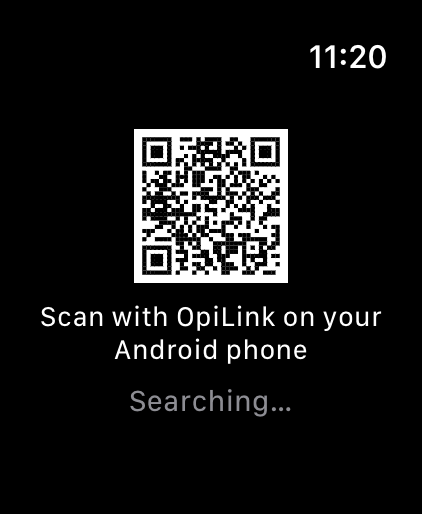
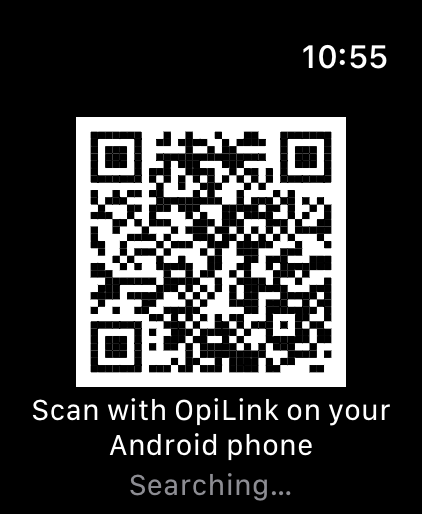
Enhanced and robust QR pairing

Changed region(s): [[0.0616, 0.2179, 0.9242, 0.9961], [0.7085, 0.0623, 0.9242, 0.1556]]

diff --git a/android/app/src/main/java/com/opiconnect/companion/LinkService.kt b/android/app/src/main/java/com/opiconnect/companion/LinkService.kt
@@ -524,7 +524,10 @@ class LinkService : Service() {
 
     private fun startAdvertising() {
         if (advertising || adapter?.isEnabled != true) return
-        val adv = adapter?.bluetoothLeAdvertiser ?: return
+        val adv = adapter?.bluetoothLeAdvertiser ?: run {
+            showAdvError(getString(R.string.error_ble_adv_unsupported))
+            return
+        }
         advertiser = adv
         val settings = AdvertiseSettings.Builder()
             .setAdvertiseMode(AdvertiseSettings.ADVERTISE_MODE_BALANCED)
@@ -547,13 +550,32 @@ class LinkService : Service() {
     private val advertiseCallback = object : AdvertiseCallback() {
         override fun onStartSuccess(settingsInEffect: AdvertiseSettings) {
             advertising = true
+            clearAdvError()
         }
 
         override fun onStartFailure(errorCode: Int) {
+            if (errorCode == AdvertiseCallback.ADVERTISE_FAILED_ALREADY_STARTED) {
+                advertising = true
+                clearAdvError()
+                return
+            }
             advertising = false
             Log.w(TAG, "advertising failed: $errorCode, retrying in 10 s")
+            showAdvError(getString(R.string.error_ble_adv_failed, errorCode))
             handler.postDelayed({ startAdvertising() }, 10_000)
         }
+    }
+
+    private var advError: String? = null
+
+    private fun showAdvError(text: String) {
+        advError = text
+        AppState.setError(text)
+    }
+
+    private fun clearAdvError() {
+        if (advError != null && AppState.lastError.value == advError) AppState.setError(null)
+        advError = null
     }
 
     // MARK: adapter state

diff --git a/watch/OpiConnect Watch App/PairingView.swift b/watch/OpiConnect Watch App/PairingView.swift
@@ -9,7 +9,7 @@ struct PairingView: View {
     }
 
     var body: some View {
-        VStack(spacing: 8) {
+        VStack(spacing: 2) {
             if let qr {
                 Canvas { context, size in
                     let quiet = 2
@@ -25,16 +25,22 @@ struct PairingView: View {
                         }
                     }
                 }
+                .frame(maxWidth: .infinity, maxHeight: .infinity)
                 .aspectRatio(1, contentMode: .fit)
+                .layoutPriority(1)
             }
             Text("Scan with OpiLink on your Android phone")
-                .font(.footnote)
+                .font(.caption2)
                 .multilineTextAlignment(.center)
+                .fixedSize(horizontal: false, vertical: true)
             Text(link.status.label)
                 .font(.caption2)
                 .foregroundStyle(.secondary)
         }
-        .padding()
+        .padding(.horizontal, 4)
+        .padding(.top, 2)
+        .padding(.bottom, 6)
+        .ignoresSafeArea(edges: .bottom)
         .onAppear { link.start(state: "active") }
     }
 }

diff --git a/watch/OpiConnect Watch App/AppDelegate.swift b/watch/OpiConnect Watch App/AppDelegate.swift
@@ -55,6 +55,7 @@ final class AppDelegate: NSObject, WKApplicationDelegate {
               let remove = try? JSONDecoder().decode(RemovePayload.self, from: data) else {
             return .noData
         }
+        AppModel.shared.markPaired()
         if let bt = remove.bt {
             SharedStore().saveStatus(PhoneStatus(bt: bt, bc: remove.bc ?? false, at: Date()))
         }
@@ -73,6 +74,7 @@ final class AppDelegate: NSObject, WKApplicationDelegate {
 extension AppDelegate: UNUserNotificationCenterDelegate {
     func userNotificationCenter(_ center: UNUserNotificationCenter,
                                 willPresent notification: UNNotification) async -> UNNotificationPresentationOptions {
+        if notification.request.content.userInfo["opi"] != nil { AppModel.shared.markPaired() }
         if notification.request.content.userInfo["q"] as? Bool == true { return [.list] }
         return [.banner, .sound, .list]
     }

diff --git a/watch/NotificationService/NotificationService.swift b/watch/NotificationService/NotificationService.swift
@@ -17,6 +17,9 @@ final class NotificationService: UNNotificationServiceExtension {
                   let sealed = OpiCrypto.base64urlDecode(c),
                   let data = try? OpiCrypto.open(sealed, using: PairingKeys.shared.encKey),
                   let payload = try? JSONDecoder().decode(NotifPayload.self, from: data) else { return }
+            // Opening the sealed payload proves the phone holds K: count as paired even
+            // when BLE advertising never reaches us.
+            UserDefaults(suiteName: PairingKeys.appGroup)?.set(true, forKey: "opi.paired")
             if let bt = payload.bt {
                 SharedStore().saveStatus(PhoneStatus(bt: bt, bc: payload.bc ?? false, at: Date()))
             }

diff --git a/watch/OpiConnect Watch App/OpiConnectApp.swift b/watch/OpiConnect Watch App/OpiConnectApp.swift
@@ -17,6 +17,8 @@ struct OpiConnectApp: App {
             switch phase {
             case .active:
                 PhoneLink.shared.start(state: "active")
+                // The NSE/AppDelegate may have set the flag while we were suspended.
+                if !model.paired && UserDefaults.appGroup.bool(forKey: "opi.paired") { model.paired = true }
                 model.reload()
             case .background:
                 PhoneLink.shared.goBackground()

diff --git a/watch/OpiConnect Watch App/PhoneLink.swift b/watch/OpiConnect Watch App/PhoneLink.swift
@@ -176,8 +176,7 @@ final class PhoneLink: NSObject, ObservableObject {
         case .welcome:
             cancelTimers()
             status = .authenticated
-            UserDefaults.appGroup.set(true, forKey: "opi.paired")
-            AppModel.shared.paired = true
+            AppModel.shared.markPaired()
             if AppModel.shared.sendState == .sending, PendingQueue.shared.count == 0 {
                 AppModel.shared.sendState = .sent
             }

diff --git a/watch/OpiConnect Watch App/AppModel.swift b/watch/OpiConnect Watch App/AppModel.swift
@@ -59,6 +59,12 @@ final class AppModel: ObservableObject {
         path = [.detail(id: id)]
     }
 
+    func markPaired() {
+        guard !paired else { return }
+        UserDefaults.appGroup.set(true, forKey: "opi.paired")
+        paired = true
+    }
+
     func insert(_ payload: NotifPayload) {
         items.removeAll { $0.id == payload.i }
         items.insert(NotifItem(payload: payload), at: 0)
